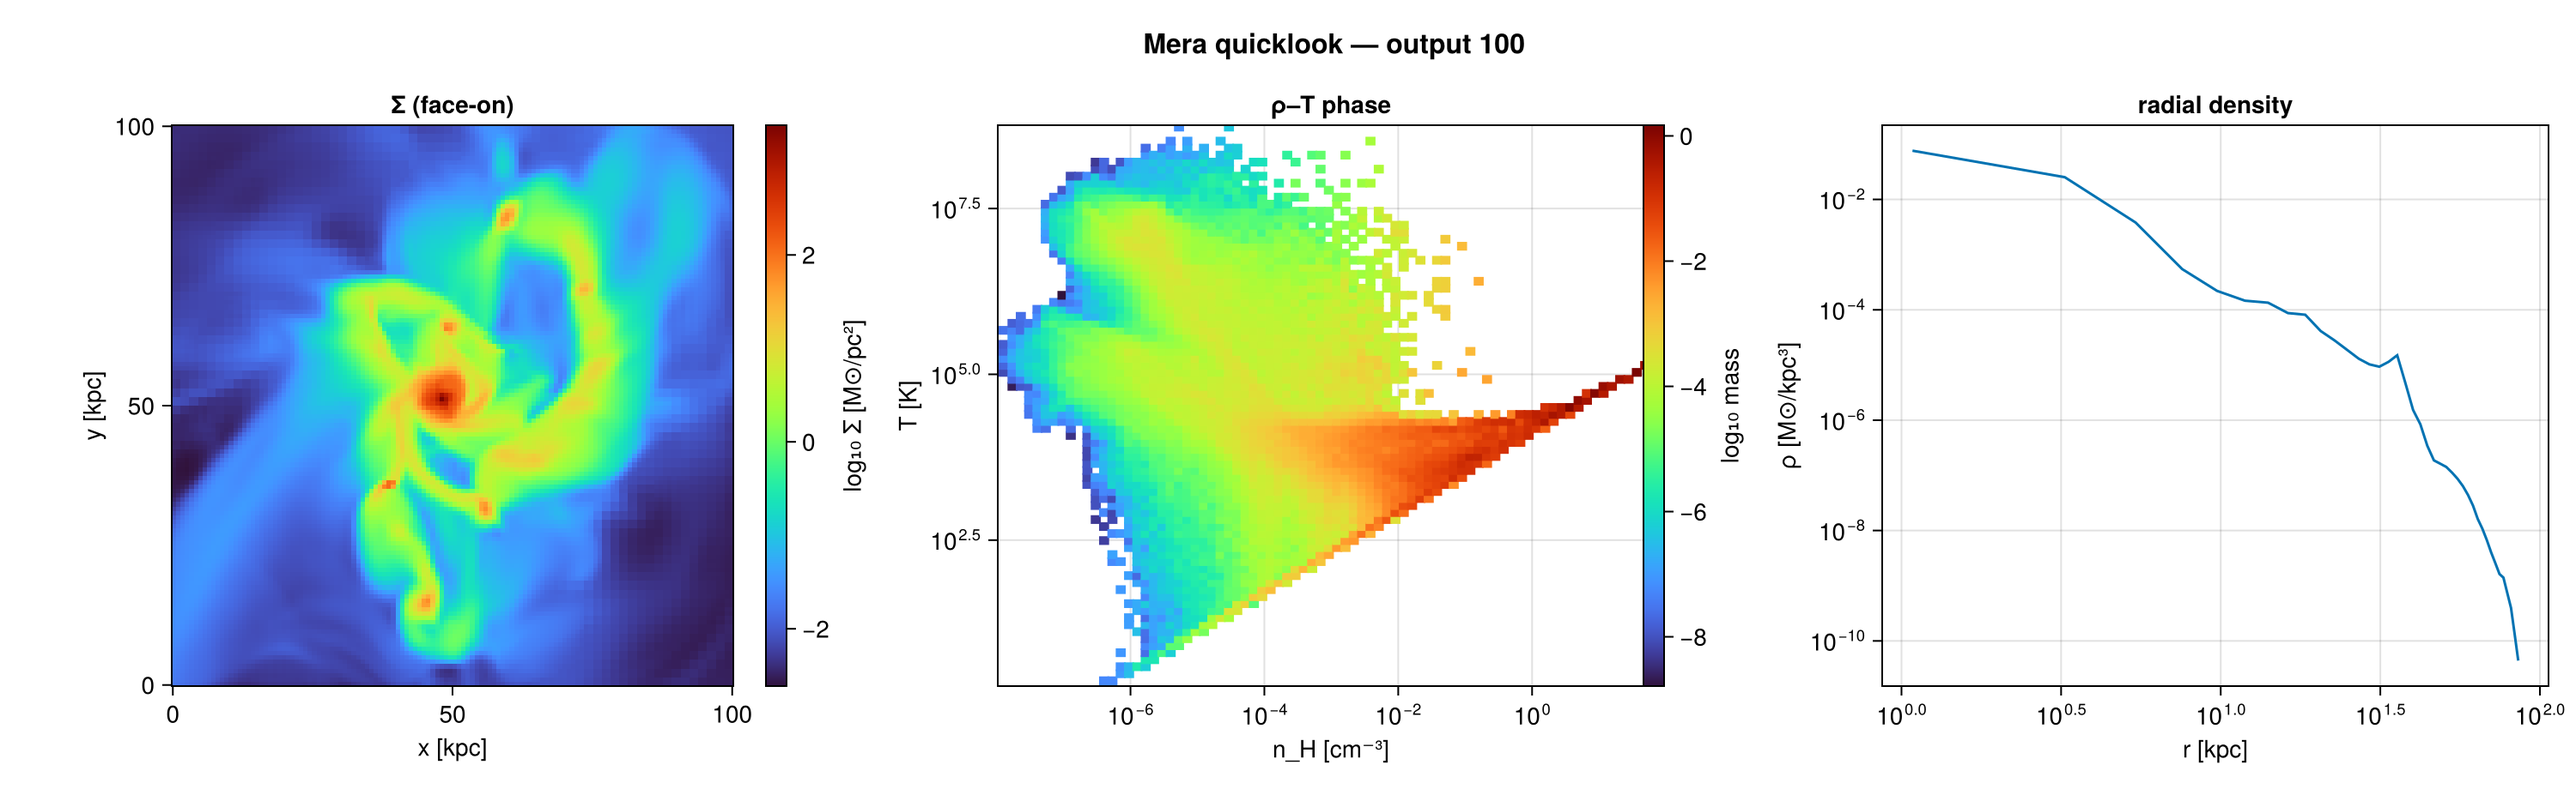
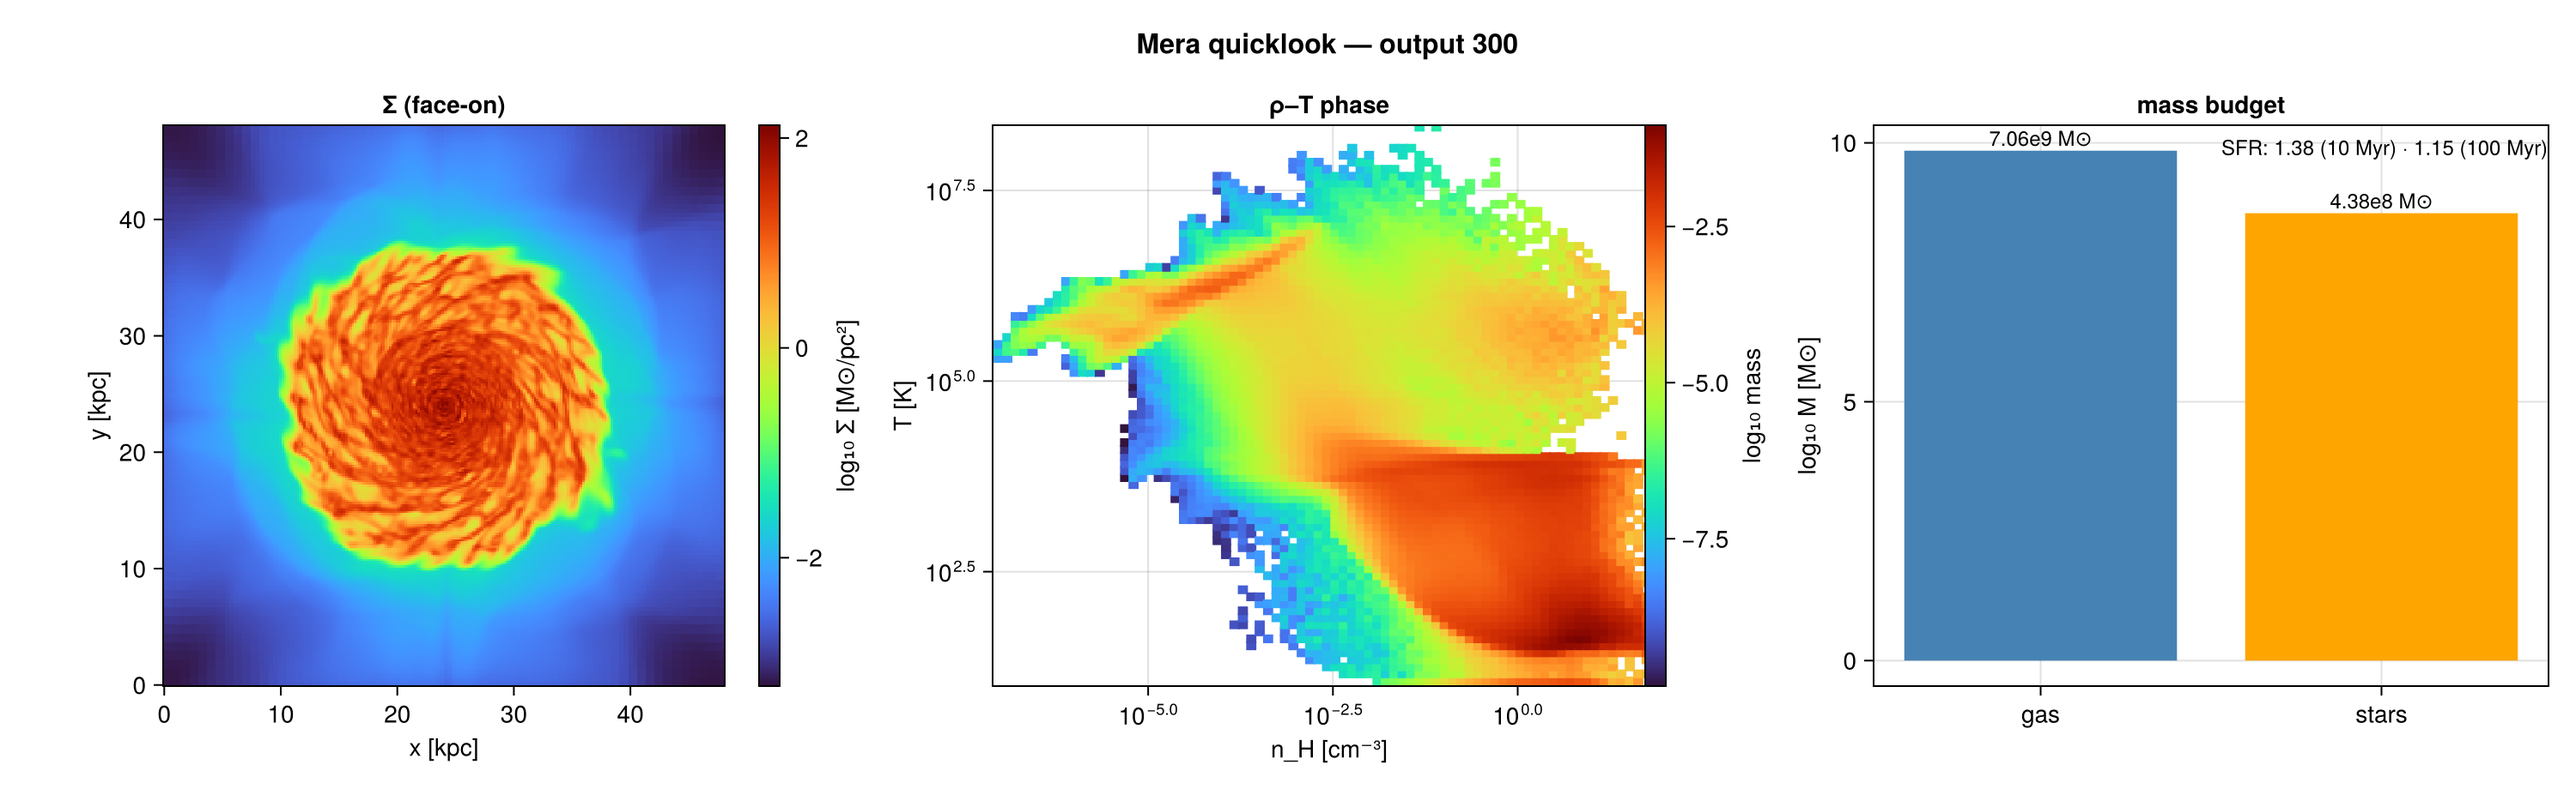
docs+quicklook: global snapshot budget panel (gas/star/DM mass + SFR), Quick Look page, clumpfind finder gallery, derived-fields figure, fix gettime/roots @ref

diff --git a/docs/src/quicklook.md b/docs/src/quicklook.md
@@ -1,0 +1,83 @@
+# Quick Look
+
+[`quicklook`](@ref) gives **a first impression of a RAMSES output in seconds**: it reads the header
+for instant facts and — unless you ask for header-only — does a single *budgeted* read to build a
+face-on surface-density map, a ρ–T phase diagram, and a **global snapshot budget** (gas / stellar /
+dark-matter mass and the current star-formation rate), printing a compact dashboard.
+
+```julia
+using Mera
+q = quicklook(300; path="/sim/mw")
+```
+
+```text
+┌─ Mera quicklook ── output 300 (RAMSES) ───────────────
+│ box        : 48.0 kpc      levels 6–10  (finest 46.88 pc)
+│ grid       : ndim 3 · ncpu 640 · nvarh 7
+│ time       : 445.9 Myr  (non-cosmological)
+│ read       : 2.832e7 cells  (full resolution)
+│ gas mass   : 7.061e9 M⊙
+│ star mass  : 4.385e8 M⊙        DM mass : 0.0 M⊙
+│ current SFR: 1.377 (10 Myr) · 1.148 (100 Myr) M⊙/yr
+│ nH range   : 8.112e-8 … 103.2 cm⁻³
+│ T  range   : 10.2 … 2.303e8 K
+│ figures    : .maps[:sd]  ·  .phase (ρ–T)  ·  .budget (mass + SFR)
+└─ 1.6 s ──────────────────────────────────
+```
+
+![The quicklook dashboard: face-on gas surface density, the ρ–T phase diagram, and the global mass
+budget (gas / stars / dark matter) annotated with the current star-formation rate.](assets/features/quicklook_dashboard.png)
+
+## What you get
+
+The call returns a [`QuickLookResult`](@ref):
+
+* `q.summary` — a `NamedTuple` of header facts and estimates (box, levels, finest cell, time/redshift,
+  masses, density/temperature ranges, read time).
+* `q.maps` — the face-on surface-density projection (`q.maps.maps[:sd]`).
+* `q.phase` — the ρ–T phase histogram (`q.phase.H`, `q.phase.xedges`, `q.phase.yedges`).
+* `q.budget` — the **global snapshot budget**: `gas_mass_Msol`, and (when a particle file is present)
+  `stellar_mass_Msol`, `dm_mass_Msol`, `n_stars`, `n_dm`, and the current SFR (`sfr10`, `sfr100`,
+  `sfr_mean`, see [`sfr_snapshot`](@ref)). Particle masses and SFR are **exact** even when the hydro
+  read is coarse.
+* `q.profile` — the spherical radial density profile, `nothing` unless you pass `profile=true`.
+
+## Budgeted reading — fast on big outputs
+
+`quicklook` is designed to stay quick even on large simulations:
+
+* `read=false` — **header only** (sub-second): box, levels, finest cell, ncpu, fields, time/redshift,
+  no data read.
+* `budget` — a cell-count cap (default `2_000_000`). If the full output is predicted larger, only the
+  coarse AMR levels are read (spatially complete, lower resolution); the result is flagged
+  `sampled=true` and the gas-derived numbers are labelled approximate. `lmax` overrides the choice.
+
+```julia
+quicklook(300; path="/sim/mw", read=false)        # instant header facts only
+quicklook(300; path="/sim/mw", budget=500_000)    # cap the read on a huge output
+quicklook(300; path="/sim/mw", profile=true)      # also compute the radial density profile
+```
+
+## Plotting
+
+[`quicklookplot`](@ref) renders the three-panel dashboard (needs a Makie backend):
+
+```julia
+using CairoMakie
+q   = quicklook(300; path="/sim/mw")
+fig = quicklookplot(q)
+CairoMakie.save("quicklook.png", fig)
+```
+
+## Relationship to reports
+
+[`report`](@ref) is the **composable** form of this first look: `report(output)` runs a default card
+trio and you can add or replace cards — projections, phase diagrams, profiles, an [`SFRCard`](@ref),
+scalar cards — then render to ascii / plot / JLD2 / file. Use `quicklook` for the fixed one-call
+overview, [`report`](@ref) when you want to choose what goes in.
+
+## API
+
+[`quicklook`](@ref), [`quicklookplot`](@ref) and [`QuickLookResult`](@ref) are documented in the
+[API reference](api.md). See also [First-Look Reports](report.md), [Star-Formation Rate](sfr.md), and
+[`sfr_snapshot`](@ref).

diff --git a/docs/src/clumpfind.md b/docs/src/clumpfind.md
@@ -20,6 +20,26 @@ cat   = clumpfind(gas, ThresholdFoF(:rho; threshold=1e2, threshold_unit=:nH, lin
 cores = clumpfind(gas, DensityWatershed(:rho; threshold=1e2, threshold_unit=:nH, linking_length=0.4))
 ```
 
+## Choosing a finder
+
+Seven [`AbstractFinder`](@ref) algorithms plug into the same neighbour-index / statistics / boundedness
+/ catalog pipeline, so they share keywords and outputs and differ only in *how* cells are grouped.
+Start with [`ThresholdFoF`](@ref); reach for the others when its single threshold isn't enough.
+
+| Finder | Method | Reach for it when |
+|---|---|---|
+| [`ThresholdFoF`](@ref) | Friends-of-friends above a field threshold (Davis et al. 1985) | The default — fast, robust; isolated clumps over a clear background |
+| [`DensityWatershed`](@ref) | FoF connectivity, then watershed split at saddles (DENMAX/SUBFIND); `persistence` prunes shallow basins | Deblending **touching/overlapping** peaks inside one connected over-dense region |
+| [`Dendrogram`](@ref) | Multi-scale hierarchy (Rosolowsky & Leroy 2008); `min_delta` peak-to-saddle contrast | You want the **nested hierarchy** (leaves → branches → roots), not a flat catalog |
+| [`GraphSegFinder`](@ref) | Graph segmentation by internal-vs-boundary contrast (Felzenszwalb & Huttenlocher 2004) | Density varies smoothly and no single threshold separates structures |
+| [`HDBSCANFinder`](@ref) | Density-based hierarchical clustering, stable-cluster extraction | Clumps span a **wide density range** / variable background; you'd rather not pick a threshold |
+| [`PhaseSpaceFoF`](@ref) | 6-D position+velocity FoF (Rockstar-style; Behroozi et al. 2013) | **Kinematically** separating spatially-overlapping structures (streams, mergers, substructure) |
+| [`PersistenceFinder`](@ref) | Topological persistence / ToMATo (Chazal et al. 2013) | **Crowded** fields — rank peaks by prominence, robust to noise |
+
+All take the same shared keywords (`field`, `threshold`, `linking_length`, `backend`, gravitational
+boundedness, tidal truncation, …); see the **Density-adaptive finders** and **Phase-space & topology**
+sections below for the algorithm-specific parameters.
+
 ## 3D — cells or particles (friends-of-friends)
 
 Cells/particles with `field ≥ threshold` are linked into a clump when they lie within

diff --git a/docs/src/derived_fields.md b/docs/src/derived_fields.md
@@ -69,6 +69,14 @@ add_field(:mach_custom, (o, d) -> sqrt.(d[:vx].^2 .+ d[:vy].^2 .+ d[:vz].^2) ./ 
           depends_on = [:vx, :vy, :vz, :cs])
 ```
 
+A registered field is a first-class citizen: it flows through [`getvar`](@ref), [`projection`](@ref),
+[`profile`](@ref) and the rest, with its dependencies read and resolved automatically. For example,
+once `:mach_custom` is registered, `projection(gas, :mach_custom)` just works:
+
+![A user-defined field projected like any built-in. `add_field(:mach_custom, …)` registers the local
+Mach number ℳ = |v|/c_s on top of the built-in sound speed `:cs`; `projection(gas, :mach_custom)` then
+renders it — supersonic disk gas (red) over the subsonic halo (blue).](assets/features/derived_fields.png)
+
 ### Units
 
 Give a field a default `unit` (it must be a field of `info.scale`, or `:standard` for code
@@ -137,6 +145,14 @@ mach
    ├─ p  (raw)
    └─ rho  (raw)
 ```
+
+## See also
+
+Registered fields are used throughout Mera: [`getvar`](@ref) computes them, [`projection`](@ref) and
+[`profile`](@ref) read only the dependencies they need (via [`getvar_requirements`](@ref)), and the
+[Quick Look](quicklook.md) / [First-Look Reports](report.md) verbs benefit from the same needs-based
+reading. See also [Star-Formation Rate](sfr.md) and [Clump Finding](clumpfind.md) for fields used in
+analysis.
 
 ## API
 

diff --git a/docs/src/report.md b/docs/src/report.md
@@ -192,4 +192,5 @@ clump_mass_fraction
   ```
 
   ![The `quicklookplot` first-look dashboard: face-on surface density, the ρ–T phase diagram, and the
-  spherical radial density profile.](assets/features/quicklook_dashboard.png)
+  global mass budget (gas / stars / dark matter) annotated with the current SFR. See
+  [Quick Look](quicklook.md).](assets/features/quicklook_dashboard.png)
